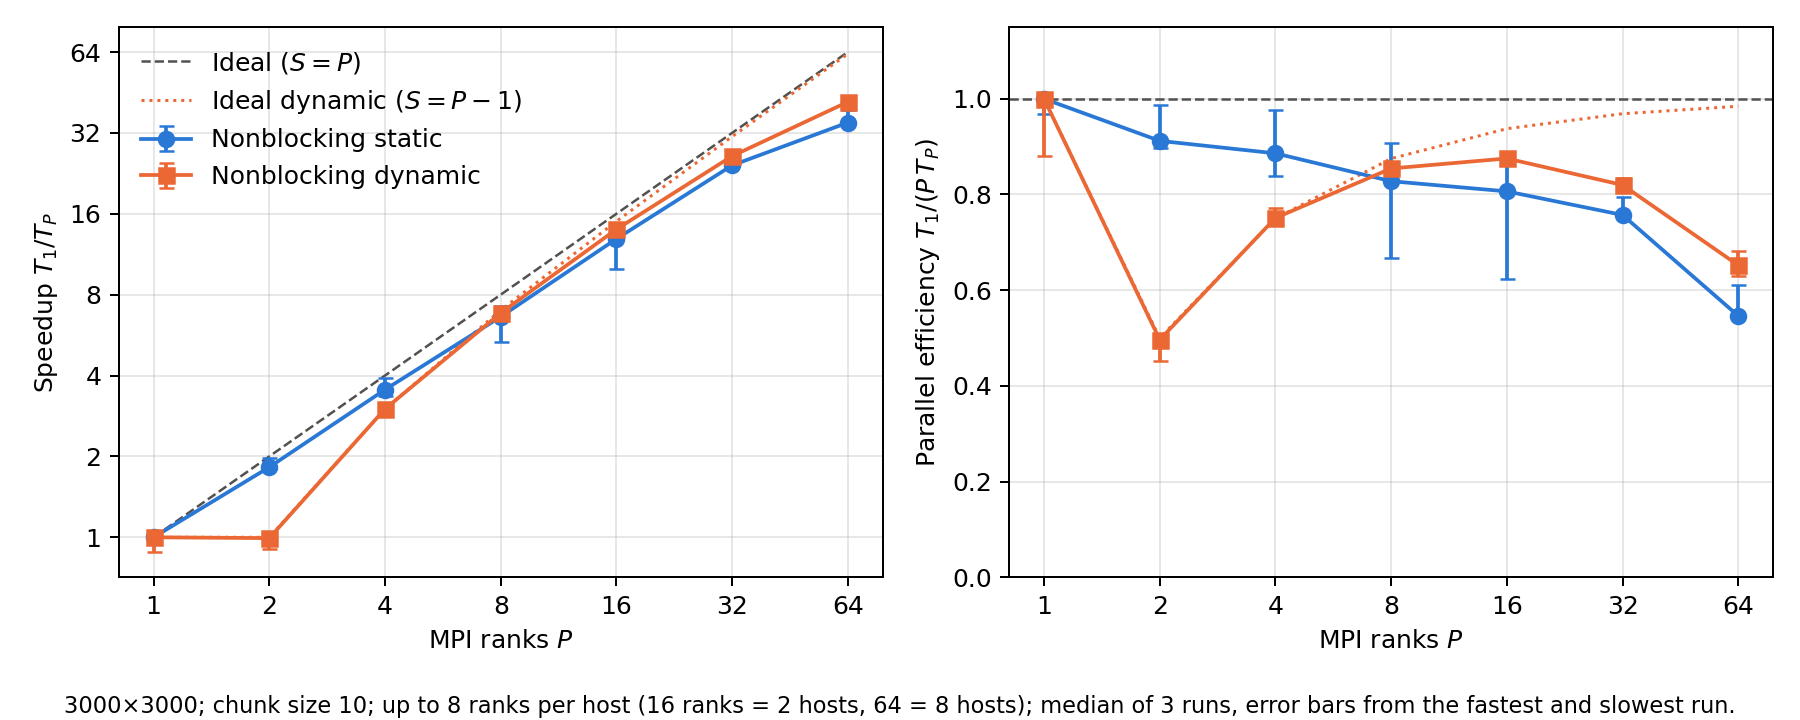
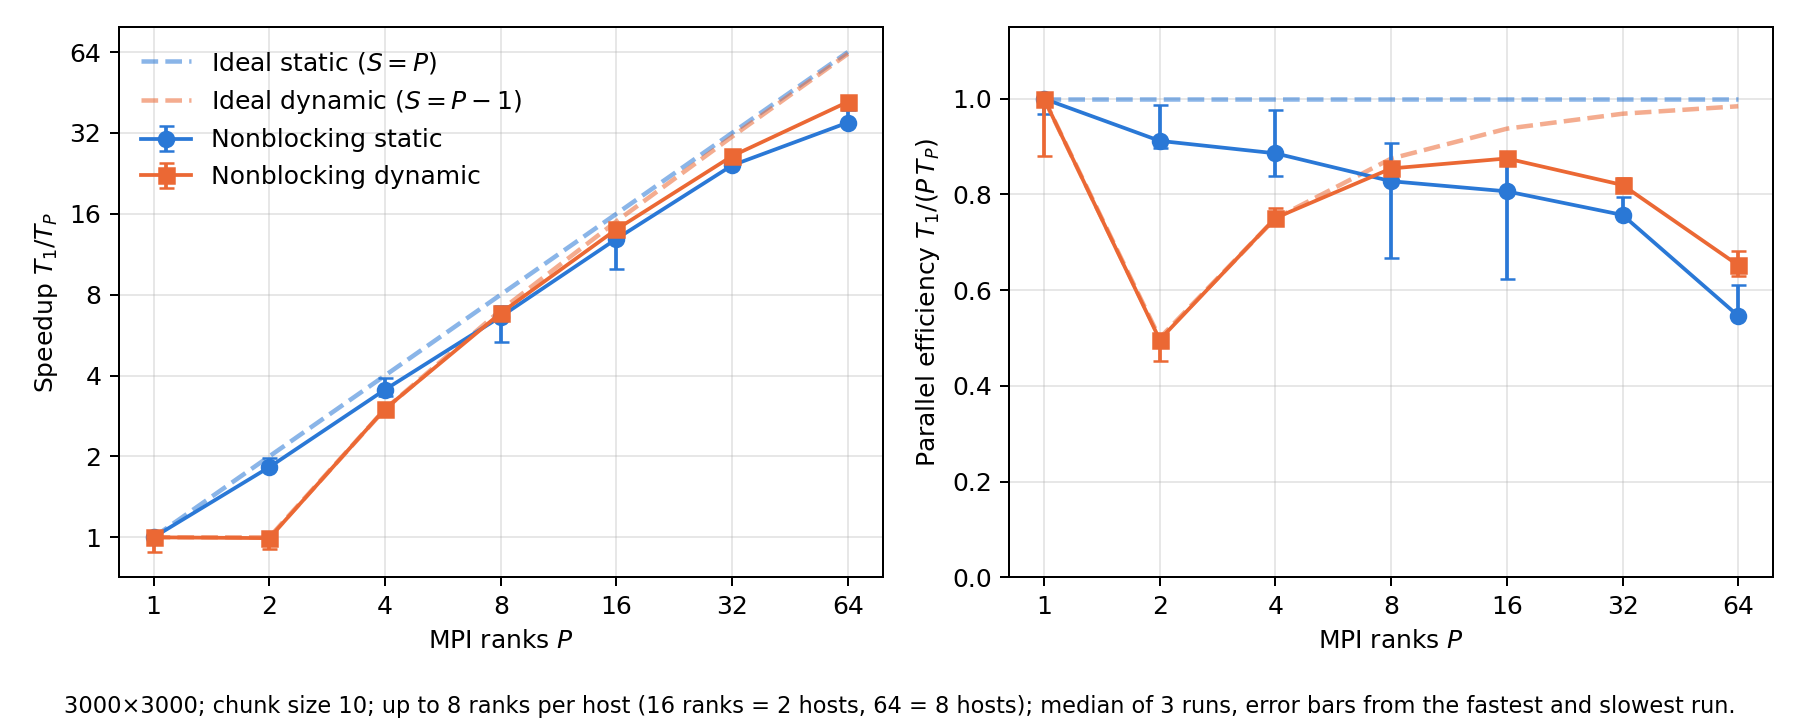
Show the ideal speedup of each implementation in its own colour

diff --git a/Week05/analyse_scaling.py b/Week05/analyse_scaling.py
@@ -63,13 +63,15 @@ def analyse(directory):
 
     # Speedup and parallel efficiency, each relative to the same implementation on 1 rank.
     fig, (left, right) = plt.subplots(1, 2, figsize=(10, 4))
-    left.plot(ranks, ranks, color='#52514e', linestyle='--', linewidth=1, label='Ideal ($S=P$)')
-    # Dynamic computes on P-1 workers, so its ideal is S = max(1, P-1).
+    # Ideal speedup = number of computing ranks: P for static; for dynamic rank 0 only
+    # manages when P > 1, so P - 1 workers compute (with P = 1, rank 0 computes alone).
     workers = [max(1, p - 1) for p in ranks]
-    left.plot(ranks, workers, color=STYLE['dynamic_nonblocking'][0], linestyle=':', linewidth=1.2,
-              label='Ideal dynamic ($S=P-1$)')
-    right.plot(ranks, [w / p for w, p in zip(workers, ranks)], color=STYLE['dynamic_nonblocking'][0],
-               linestyle=':', linewidth=1.2)
+    for ideal, impl, label in ((ranks, 'static_nonblocking', 'Ideal static ($S=P$)'),
+                               (workers, 'dynamic_nonblocking', 'Ideal dynamic ($S=P-1$)')):
+        colour = STYLE[impl][0]
+        left.plot(ranks, ideal, color=colour, linestyle='--', linewidth=1.8, alpha=.55, label=label)
+        right.plot(ranks, [w / p for w, p in zip(ideal, ranks)], color=colour, linestyle='--',
+                   linewidth=1.8, alpha=.55)
     for impl, points in scaling.items():
         colour, marker = STYLE[impl]
         base = points[0]['median']
@@ -87,7 +89,6 @@ def analyse(directory):
         ax.minorticks_off(); ax.set_xlabel('MPI ranks $P$'); ax.grid(alpha=.3)
     left.set_yscale('log', base=2); left.set_yticks(ranks); left.set_yticklabels([str(p) for p in ranks])
     left.set_ylabel('Speedup $T_1/T_P$'); left.legend(frameon=False)
-    right.axhline(1, color='#52514e', linestyle='--', linewidth=1)
     right.set_ylim(0, 1.15); right.set_ylabel('Parallel efficiency $T_1/(P\\,T_P)$')
     fig.text(.5, .01, f'{d["width"]}×{d["height"]}; chunk size {d["chunk_size"]}; up to {slots} ranks per host '
              f'(16 ranks = 2 hosts, 64 = 8 hosts); median of {d["repetitions"]} runs, '
